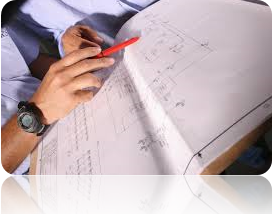
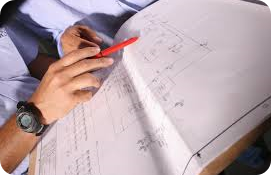
resize and delete reflecting electrical images

diff --git a/electrical.html b/electrical.html
@@ -164,7 +164,7 @@
 
 
 					<img class="img-responsive" src="./img/elec7.png" alt="">
-					<img class="img-responsive" src="./img/elec6.png" alt="">
+					<img class="img-responsive" src="./img/elec8.png" alt="">
   				<h2>Suministro y montaje en telecomunicaciones</h2>
 
   				<ul>
@@ -181,6 +181,7 @@
   					<li>Pruebas Con protocolo de Comunicaciones MODBUS / Modbus Plus / RTU / Profibus
 </li>
   				</ul>
+  				<img class="img-responsive" src="./img/elec9.png" alt="">
   				 </div>
   			</div>
 
